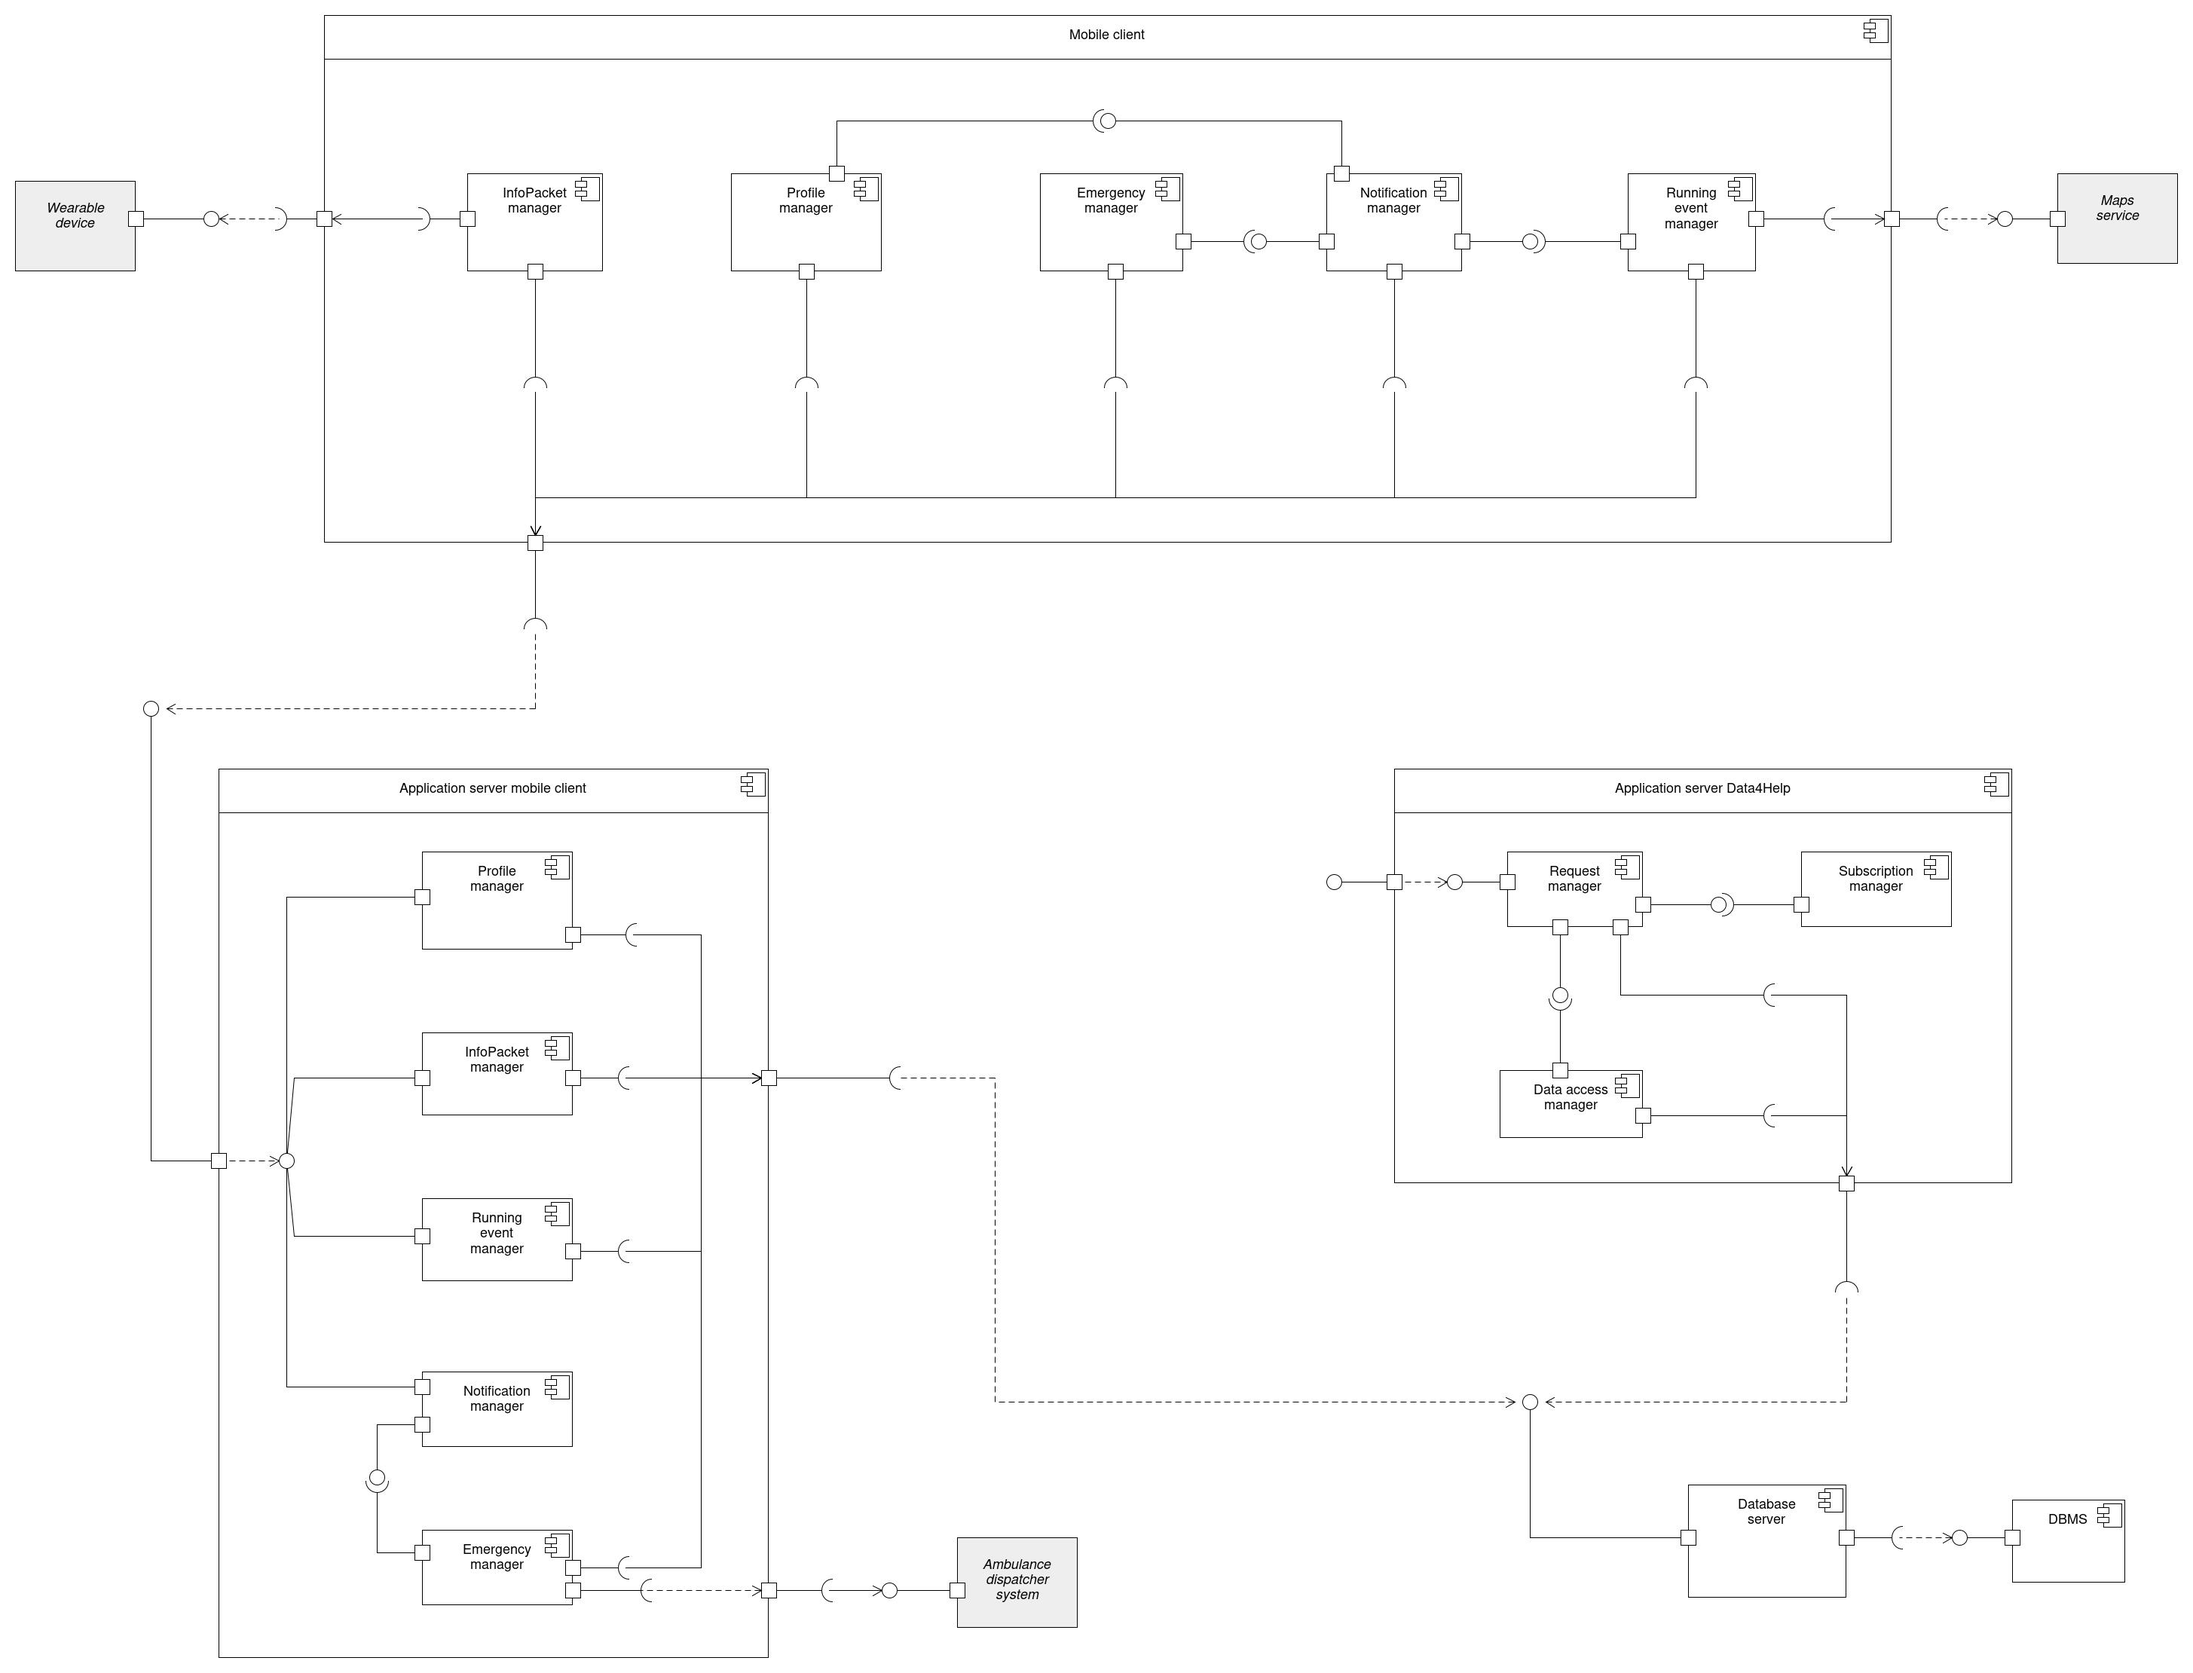
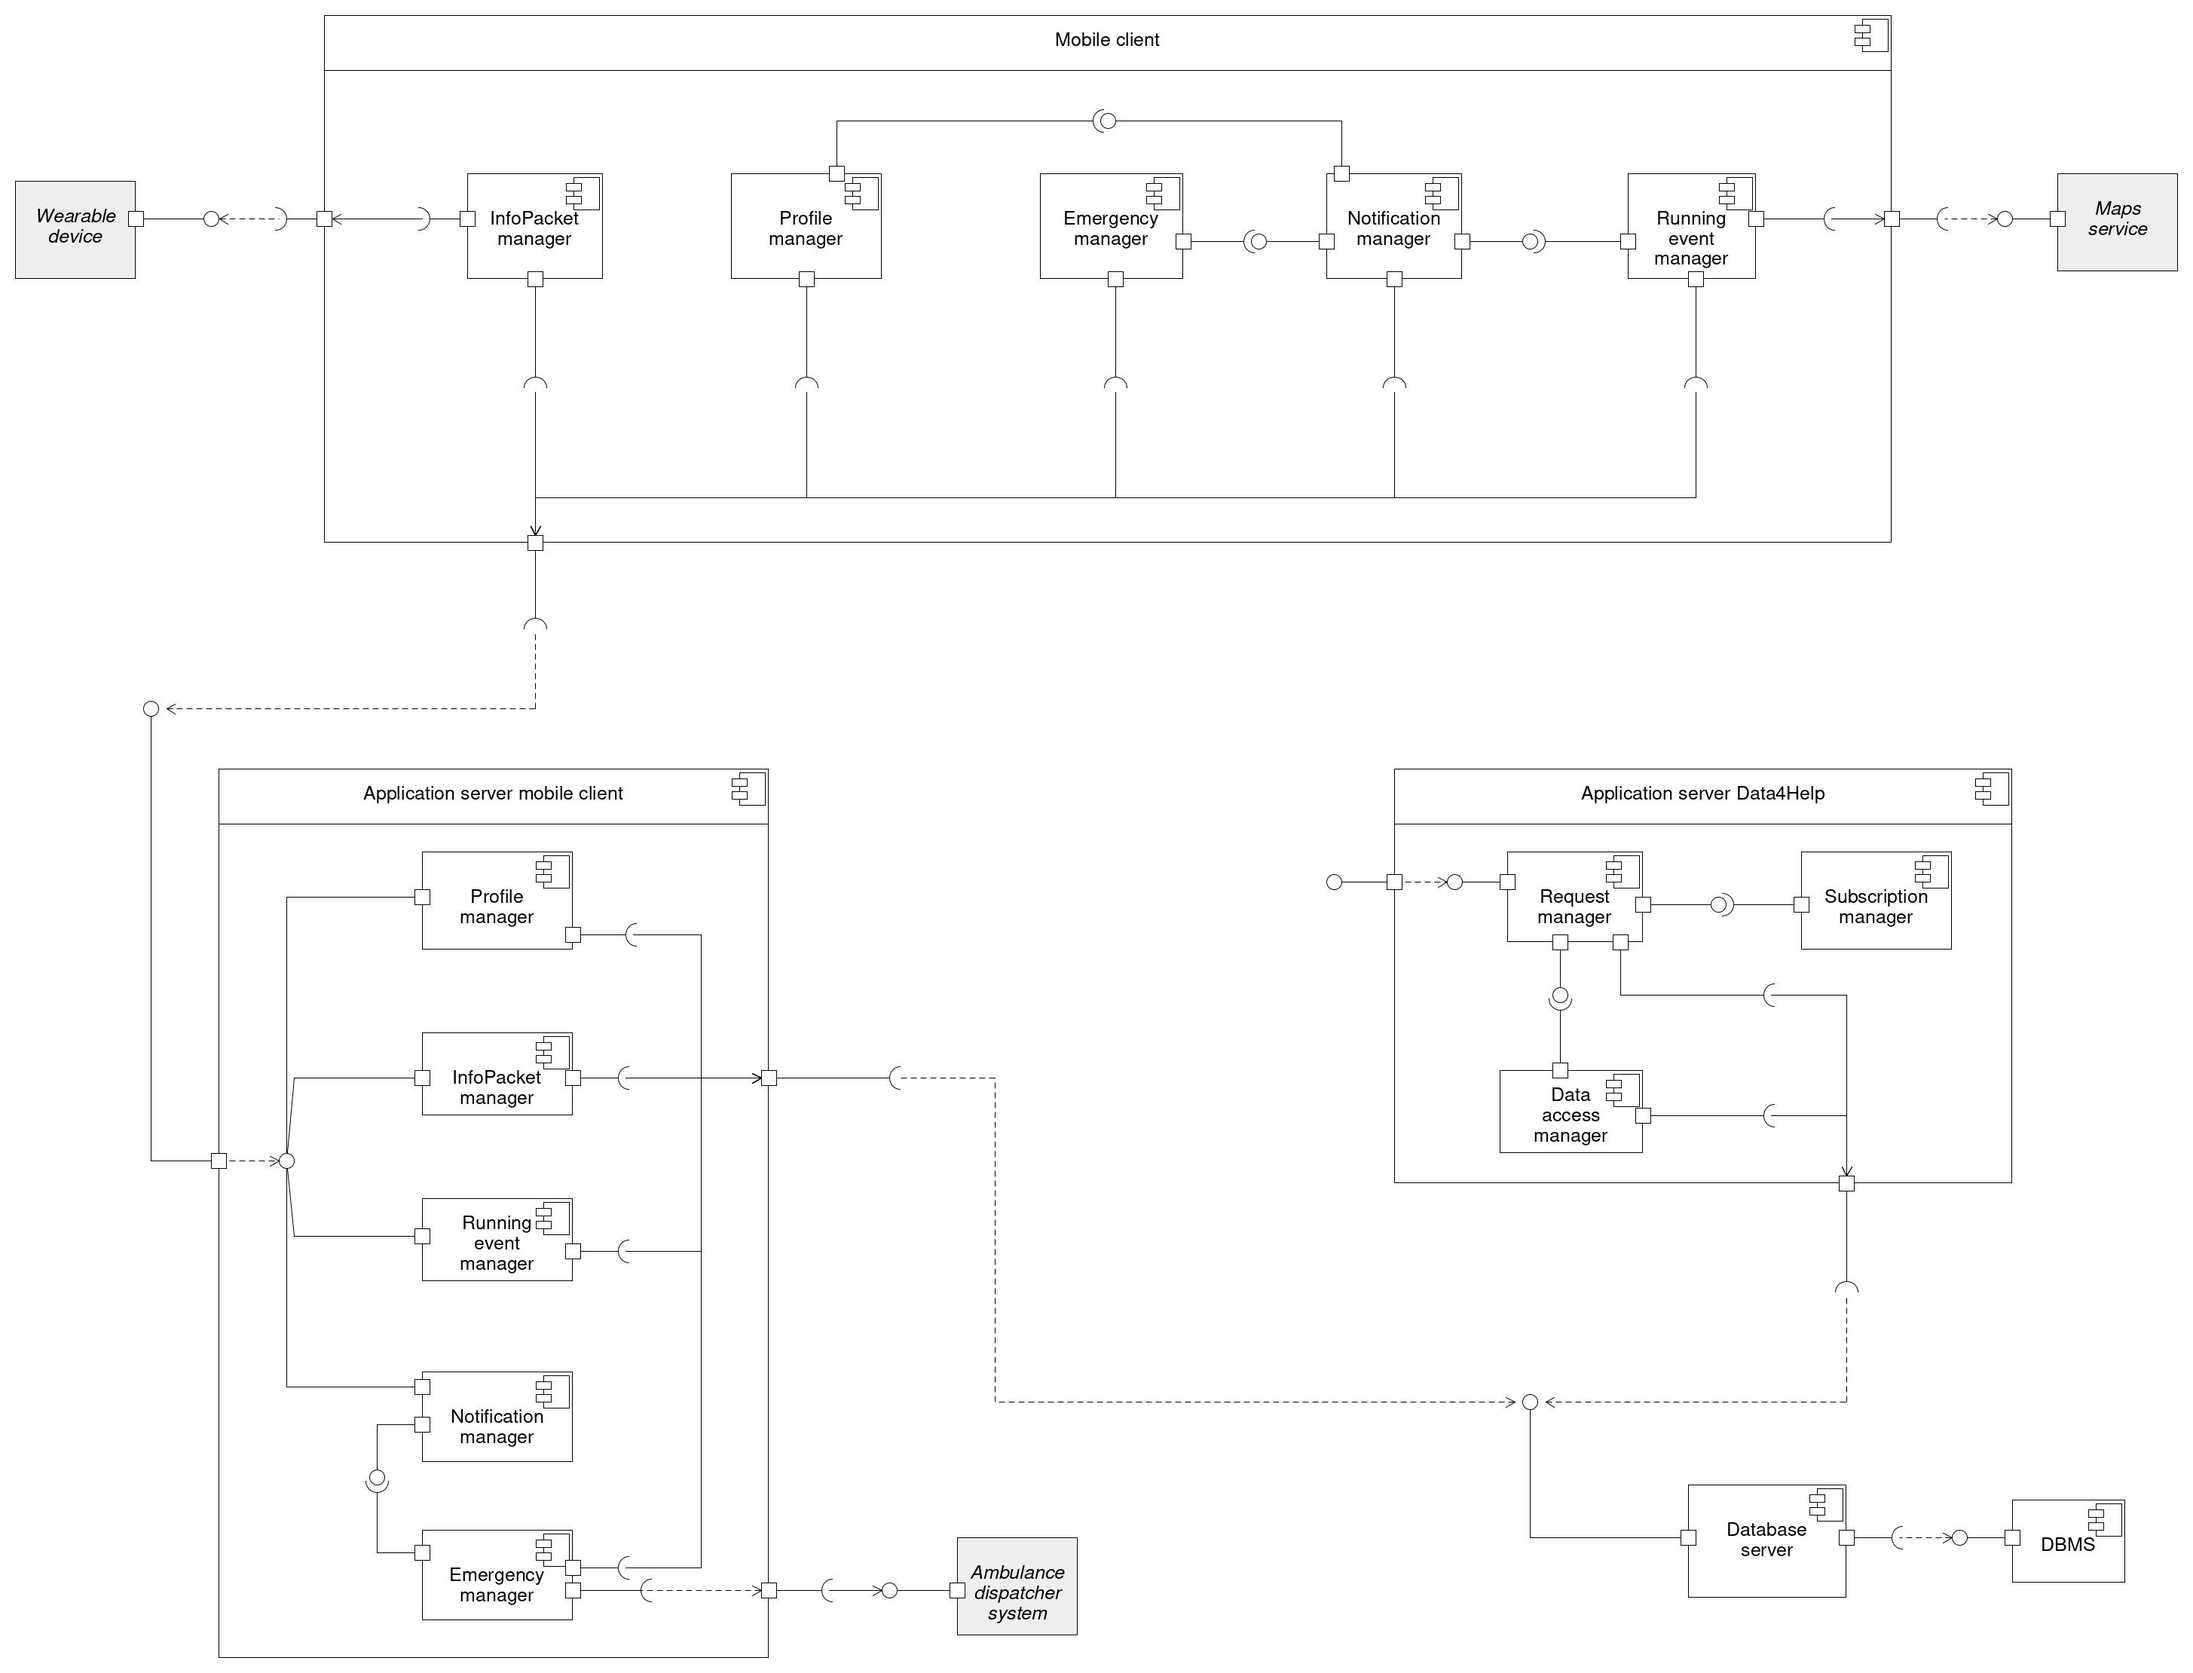
fixed paper size

diff --git a/DD/main.tex b/DD/main.tex
@@ -7,6 +7,8 @@
 \usepackage{subfiles}
 \usepackage{subcaption} % used to align images in rows and columns
 \usepackage{titlesec}
+\usepackage[vcentering,dvips]{geometry}
+\geometry{papersize={210mm, 297mm}}
 
 % spacing for commands
 % \titlespacing*{\command}
